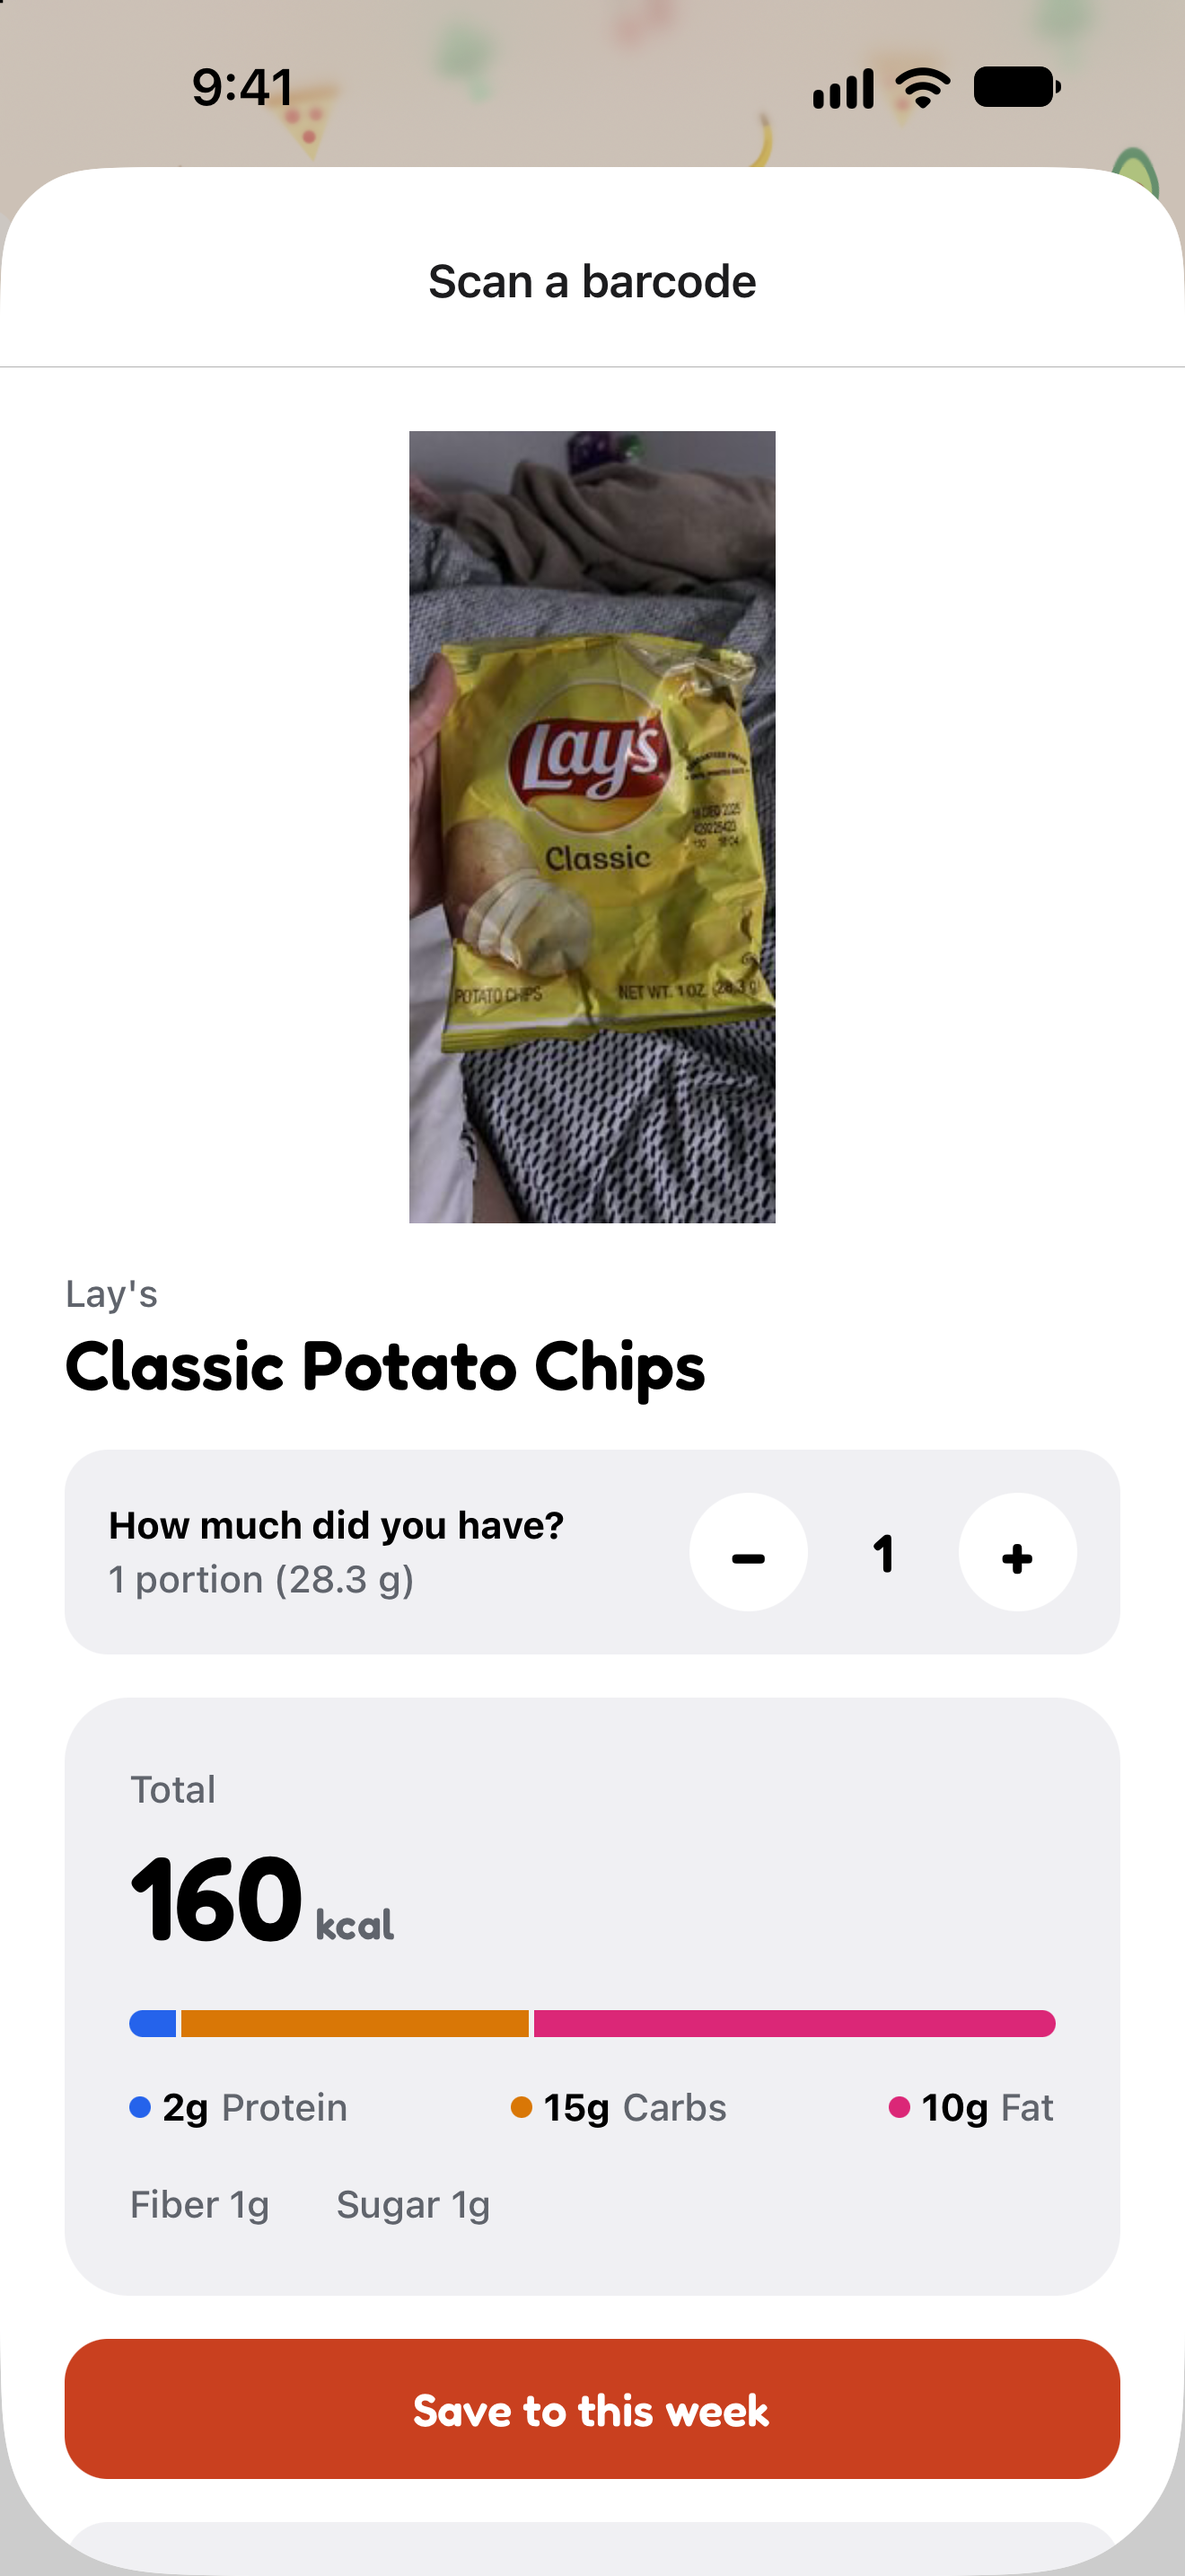
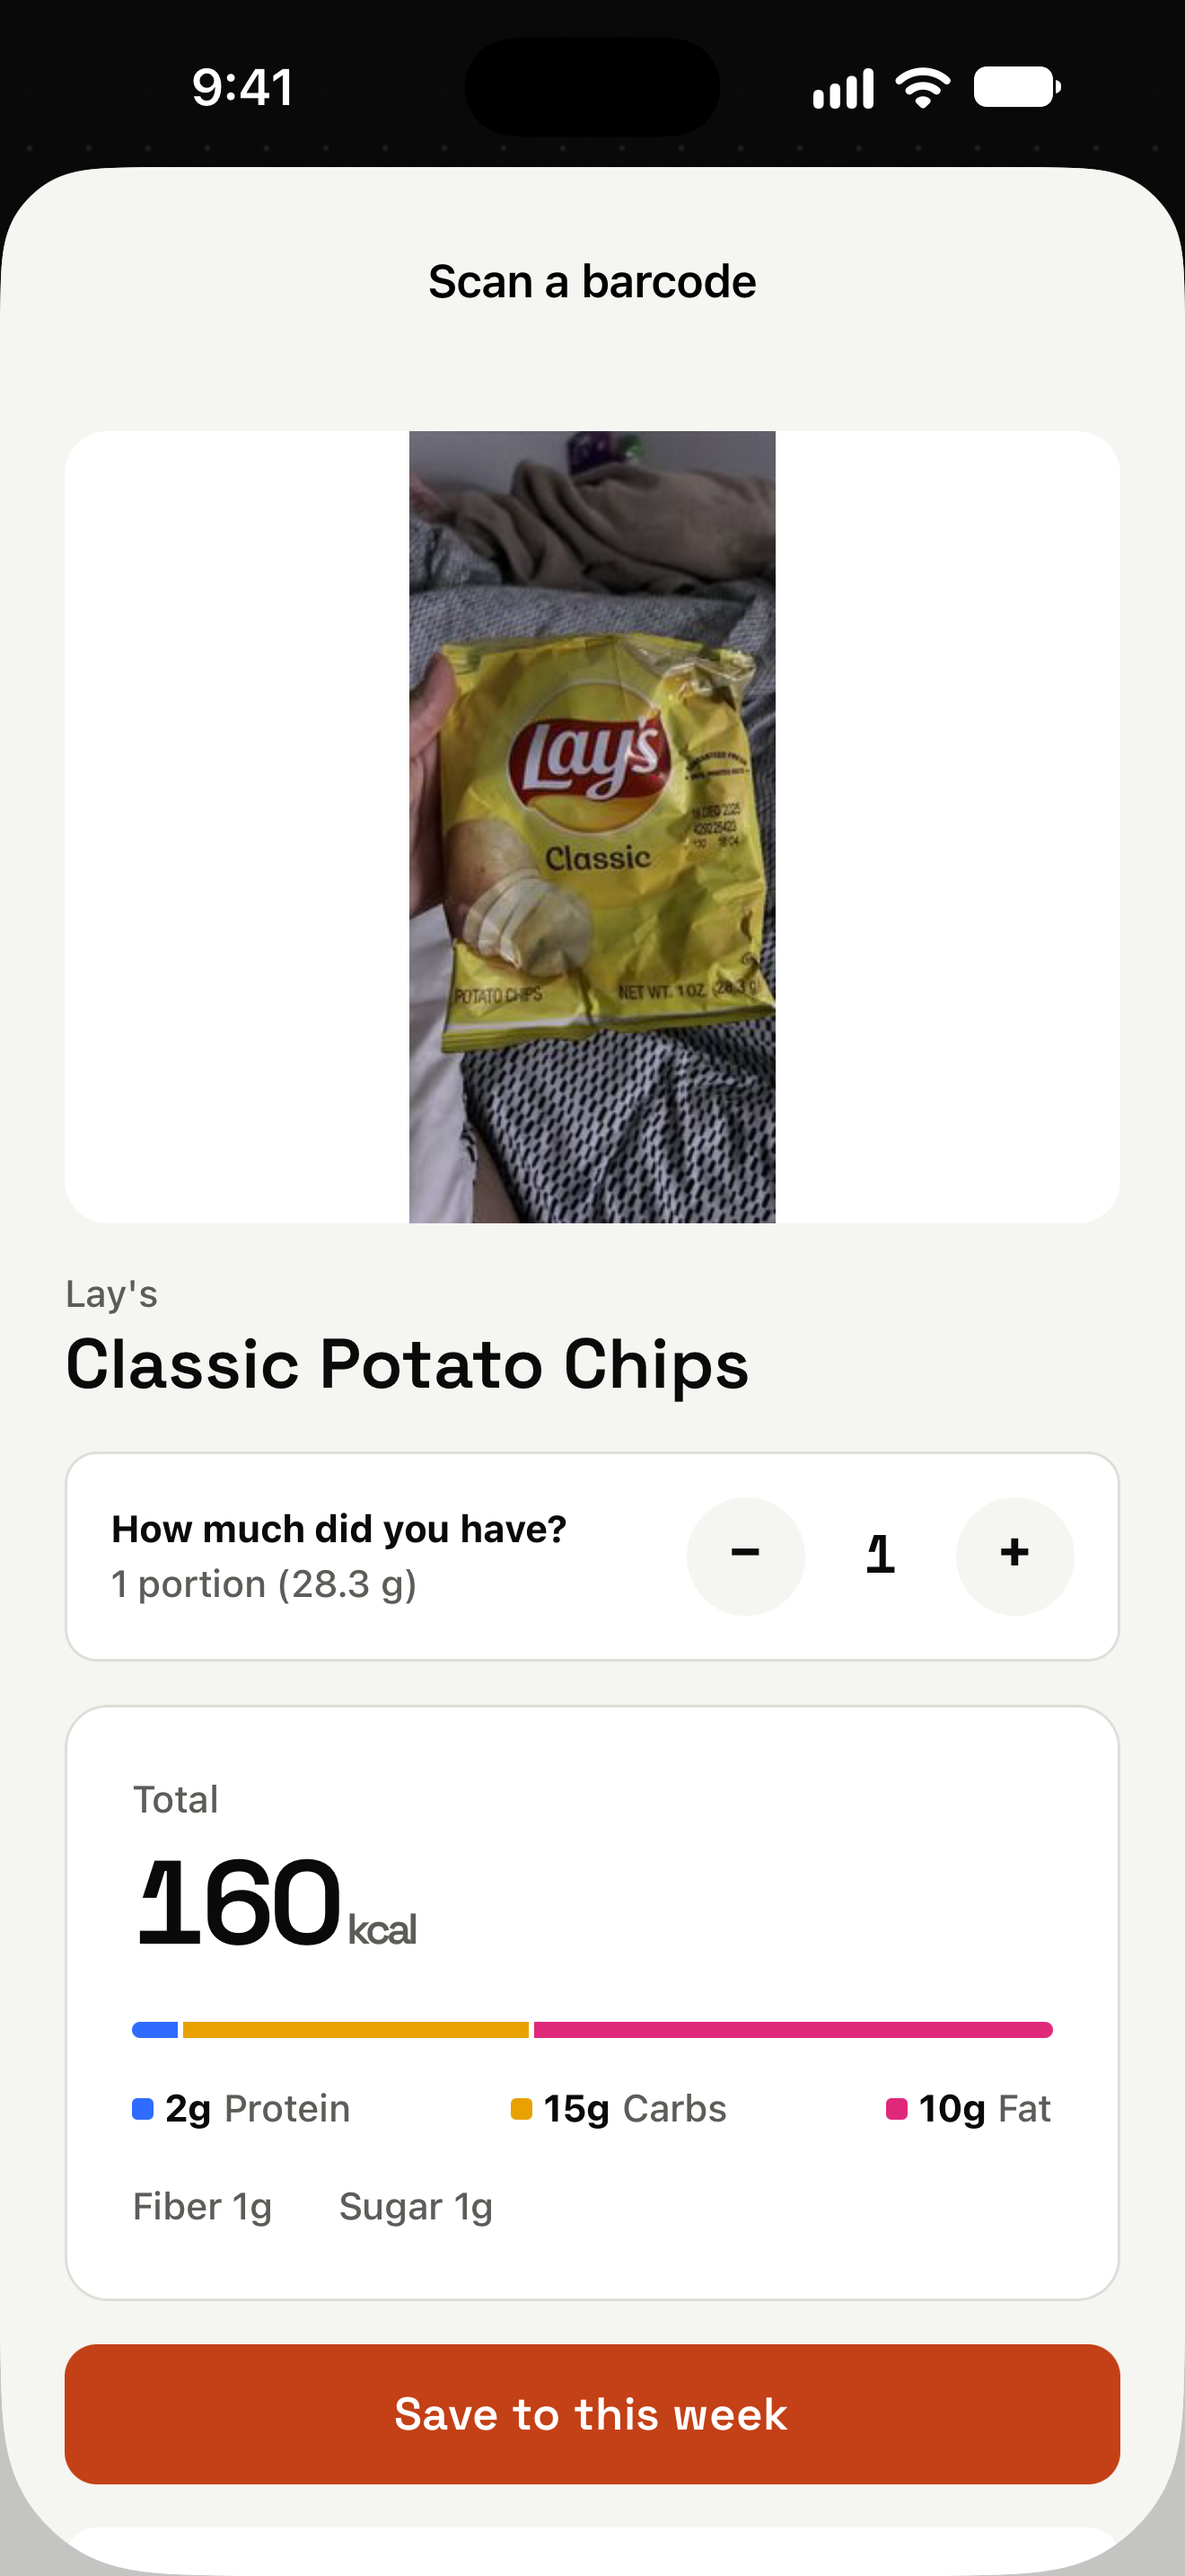
Retake App Store screenshots for the redesign and add iPhone Duo set
The iPhone screenshots showed the old design. The new set comes from a
Release build with sample data. iphone-duo/ adds five screenshots of the
unfolded inner display, which give the product page the iPhone Duo badge.

diff --git a/store/README.md b/store/README.md
@@ -220,11 +220,9 @@ Apple asks for a recording on a physical iPhone running the latest iOS, starting
 
 ## Screenshots
 
-> **Retake before the next submission.** These screenshots show the design before the October 2026 redesign: the old icon, a "Scan" tab and a "Choose from library" button. Apple requires screenshots to show the current app (guideline 2.3.3).
+Ready to upload, in [`screenshots/`](screenshots/). All are 1320 × 2868 pixels, the 6.9-inch iPhone size, captured on October 26, 2026 from a Release build on the iPhone 18 Pro Max simulator, with a clean 9:41 status bar. They show the redesigned app. Upload them in this order:
 
-Ready to upload, in [`screenshots/`](screenshots/). All are 1320 × 2868 pixels, the 6.9-inch iPhone size, captured from the iPhone 18 Pro Max simulator with a clean 9:41 status bar. Upload them in this order:
-
-1. `01-scan.png`: Scan tab with the logo, hero and the photo and barcode buttons
+1. `01-log.png`: Log tab with the hero, a typed meal and the Type it and Snap it modes
 2. `02-meal-result.png`: a meal's photo with its calorie and macro breakdown
 3. `03-barcode-result.png`: a scanned bag of chips with its product photo and label nutrition
 4. `04-daily-targets.png`: lose, maintain and gain targets on the Week tab
@@ -236,11 +234,9 @@ Ready to upload, in [`screenshots/`](screenshots/). All are 1320 × 2868 pixels,
 
 Apple allows up to 10 screenshots. The first three show in search results, so keep that order.
 
-`extra-first-launch.png` shows the first-launch screen asking for a key. Swap it in for one of the five if you prefer.
+The meal photos come from Unsplash under its free license. See [`screenshots/CREDITS.md`](screenshots/CREDITS.md). The meals and numbers are sample data loaded straight into the simulator app's storage, not live AI results. The barcode result is a live Open Food Facts lookup.
 
-The meal photos come from Unsplash under its free license. See [`screenshots/CREDITS.md`](screenshots/CREDITS.md). The meals and numbers are sample data loaded straight into the simulator app's storage, not live AI results.
-
-To retake them later, run the app on the iPhone 18 Pro Max simulator, set the status bar with `xcrun simctl status_bar booted override --time 9:41 --batteryState discharging --batteryLevel 100`, and save each screen with `xcrun simctl io booted screenshot <file>.png`. Save the files outside the project folder while Metro is running. A new file in the project makes Metro reload the app mid-capture.
+To retake them later, build a Release version for the simulator with `npx expo run:ios --configuration Release`, so no developer warning banner appears. Set the status bar with `xcrun simctl status_bar booted override --time 9:41 --batteryState discharging --batteryLevel 100`, and save each screen with `xcrun simctl io booted screenshot <file>.png`. The sample meals are relative to today, and the app deletes meals older than 7 days at launch, so load them just before you capture.
 
 ## iPhone Duo
 
@@ -257,9 +253,17 @@ Say "iPhone Duo" in the promotional text and What's New, as above. Owners search
 
 ### iPhone Duo screenshots
 
-When you upload iPhone Duo screenshots, the App Store shows a badge on the product page saying the app is optimized for iPhone Duo. From April 2027, every submission must include them. Check App Store Connect's screenshot specifications for the iPhone Duo sizes.
+When you upload iPhone Duo screenshots, the App Store shows a badge on the product page saying the app is optimized for iPhone Duo. From April 2027, every submission must include them.
 
-To capture them, run the app on the iPhone Duo simulator (Xcode 27.1, iOS 27.1 runtime). Unfold it in Device Hub, load the same sample data as the iPhone screenshots, and save each screen with `xcrun simctl io <device> screenshot <file>.png`.
+Ready to upload, in [`screenshots/iphone-duo/`](screenshots/iphone-duo/). They are 2853 × 2007 pixels, the unfolded inner display in landscape, captured from a Release build on the iPhone Duo simulator (Xcode 27.1, iOS 27.1) with the same sample data. Check this size against App Store Connect's iPhone Duo screenshot specifications before uploading. Upload them in this order:
+
+1. `01-log.png`: Log tab with the vertical tab bar on the right
+2. `02-meal-result.png`: a meal's photo with its calorie and macro breakdown
+3. `03-daily-targets.png`: lose, maintain and gain targets
+4. `04-week.png`: the 7-day calendar with daily totals and today's meals
+5. `05-settings.png`: AI provider choices in Settings
+
+To retake them, unfold the simulator in Device Hub before launching the app, then capture as for the iPhone set.
 
 ## After approval
 
